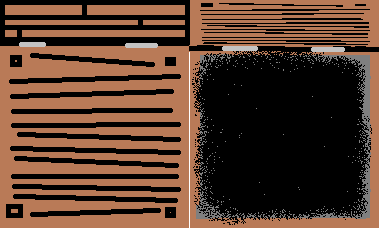
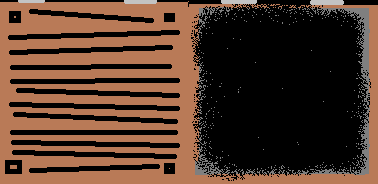
modifde la trape

diff --git a/src/modele/element/Aventure.java b/src/modele/element/Aventure.java
@@ -559,7 +559,7 @@ public class Aventure extends Element {
 
                        //on configure la salle
                        l.setNom("Salle du Boss");
-                       SpriteSheet trape = new SpriteSheet("/trape.png",0,0,188,227,50,50);
+                       SpriteSheet trape = new SpriteSheet("/trape.png",0,0,188,183,50,50);
                        trape.loadImage();
                        trape.ajouterAnimation(new Animation("Close",new int[] {0}));
                        trape.ajouterAnimation(new Animation("Open",new int[] {1}));
